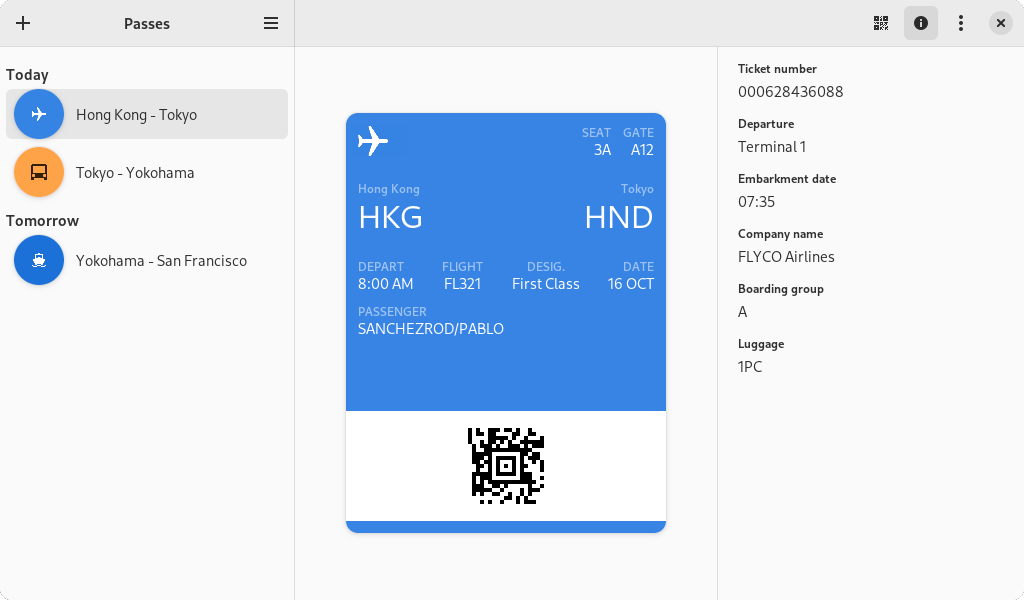
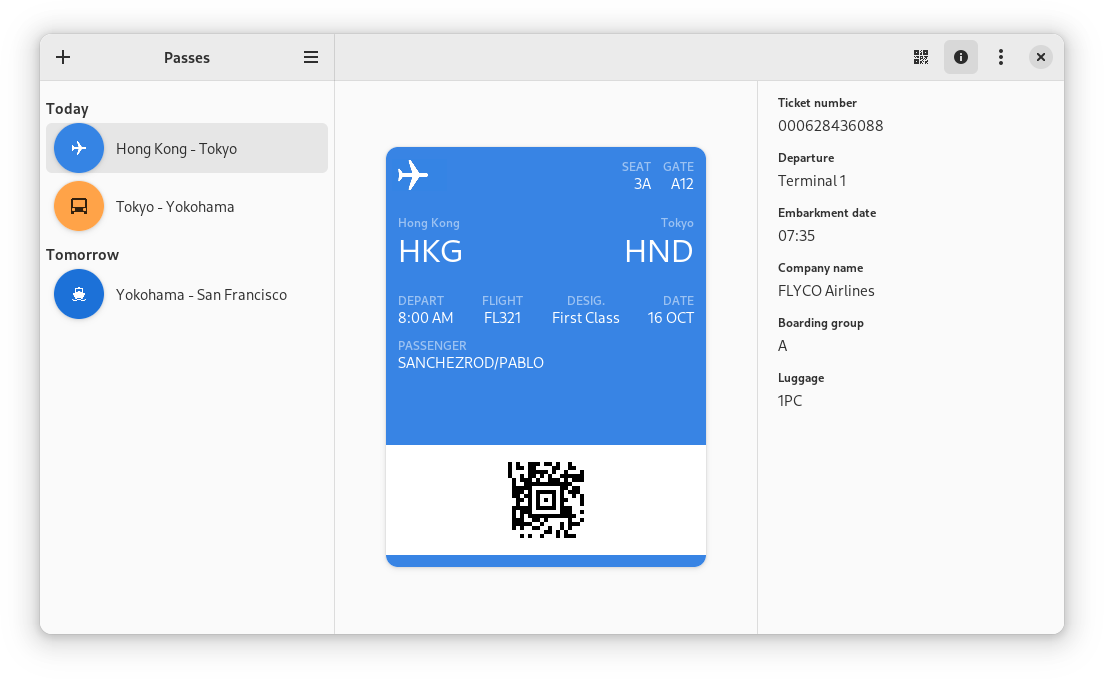
Update screenshots
Image passes.png now includes shadow.
Removed passes_with_shadow.png.

diff --git a/README.md b/README.md
@@ -3,7 +3,7 @@
 
 *Passes* is a digital pass manager made with libadwaita for the GNOME desktop.
 
-![Screenshot](/data/screenshots/passes_with_shadow.png)
+![Screenshot](/data/screenshots/passes.png)
 
 ## Features
 
